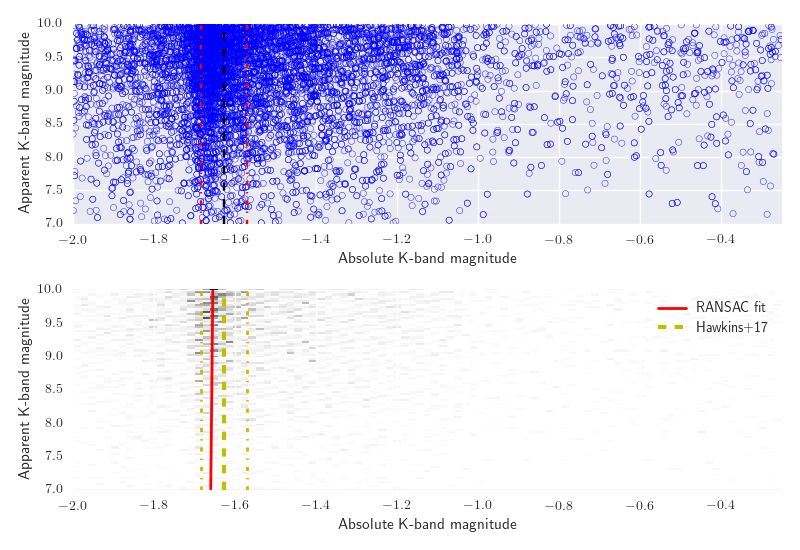
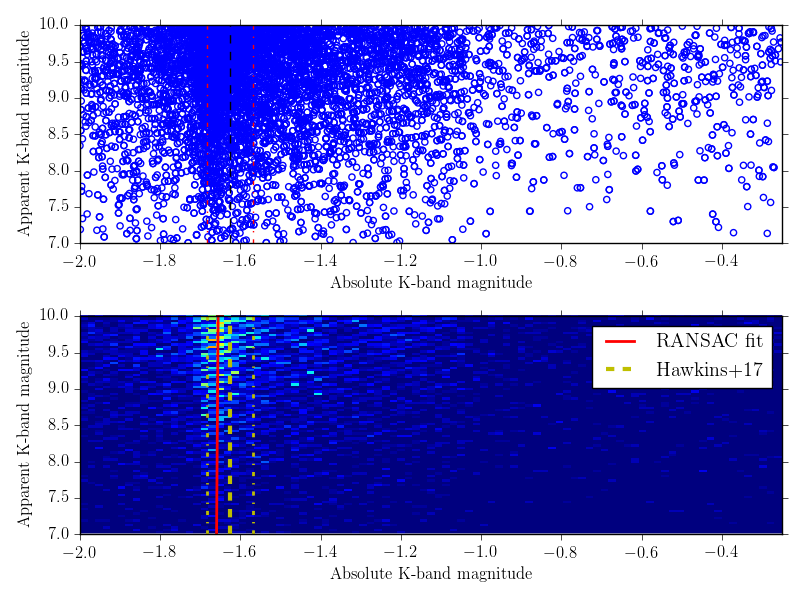
Made minor modifications to the amount of data called in.

diff --git a/main.py b/main.py
@@ -46,7 +46,7 @@ def get_values(df):
     M_ks = M_ks[sel]
     m_ks = m_ks[sel]
 
-    sel = np.where(m_ks < 10.)
+    sel = np.where(m_ks < 16.)
     M_ks = M_ks[sel]
     m_ks = m_ks[sel]
 
@@ -80,12 +80,12 @@ def fBounds(X,Y,d):
     Mo = Y[loc]
 
     '''Offset | Bg_variance | Q | Model Mean | Model Sig | Over Mean | Over Sig | Fg_variance'''
-    start = [0.05, 0.4, 0.5, \
+    start = [0.05, 0.1, 0.5, \
             -1.6, 0.15, \
-            Mo, 0.5, 0.3]
-    bound = [(0.,0.3), (0.01,0.5), (0.,1.),\
+            Mo, 2.0, 0.3]
+    bound = [(0.,0.2), (0.01,0.2), (0.,1.),\
             (-1.8,-0.5),(0.001,0.2),\
-            (7.0,10.0),(0.1,2.5),(0.01,0.8)]
+            (7.0,16.0),(0.1,4.0),(0.01,0.8)]
     return start,bound
 
 class cModel:
@@ -184,7 +184,7 @@ if __name__ == '__main__':
         ax1[0].axvline(-1.626+0.057, c='r', linestyle='-.')
         ax1[0].axvline(-1.626-0.057, c='r', linestyle='-.')
         ax1[0].set_xlim(-2.0,-0.25)
-        ax1[0].set_ylim(7.0,10.0)
+        ax1[0].set_ylim(7.0,16.0)
 
         #_________________Building Density distribution_________________________
         x = M_ks
@@ -227,7 +227,7 @@ if __name__ == '__main__':
         ax1[1].axvline(-1.626+0.057, c='r', linestyle='-.')
         ax1[1].axvline(-1.626-0.057, c='r', linestyle='-.')
         ax1[1].set_xlim(-2.0,-0.25)
-        ax1[1].set_ylim(7.0,10.0)
+        ax1[1].set_ylim(7.0,16.0)
         fig1.tight_layout()
 
         #Plotting density in 3D for clairty
@@ -257,7 +257,7 @@ if __name__ == '__main__':
         print "Priors: \n", bounds
 
         Fit = cMCMC.MCMC('TRILEGAL',start_params, Like, Prior,\
-                        _start_kdes=0,_ntemps=1,_niter=500)
+                        _start_kdes=0,_ntemps=1,_niter=1000)
 
         chain = Fit.run()
         fg_pp,_ = Fit.postprob(X)
@@ -287,8 +287,8 @@ if __name__ == '__main__':
         fig2, ax2 = plt.subplots()
         ax2.hist2d(xxyy[:,0],xxyy[:,1],bins=np.sqrt(len(x)))
         ax2.contour(X,Y,Model.fg(results.loc[0]),10,cmap='copper')
-        ax2.plot(line,yy,c='c')
-        ax2.plot(rc_line,yy,linewidth=2,c='r')
+        # ax2.plot(line,yy,c='c')
+        ax2.plot(rc_line,yy,linewidth=2,c='c')
         ax2.set_xlabel('Absolute K-band magnitude')
         ax2.set_ylabel('Apparent K-band magnitude')
         ax2.axvline(-1.626,c='k',linestyle='--') # Hawkins+17
